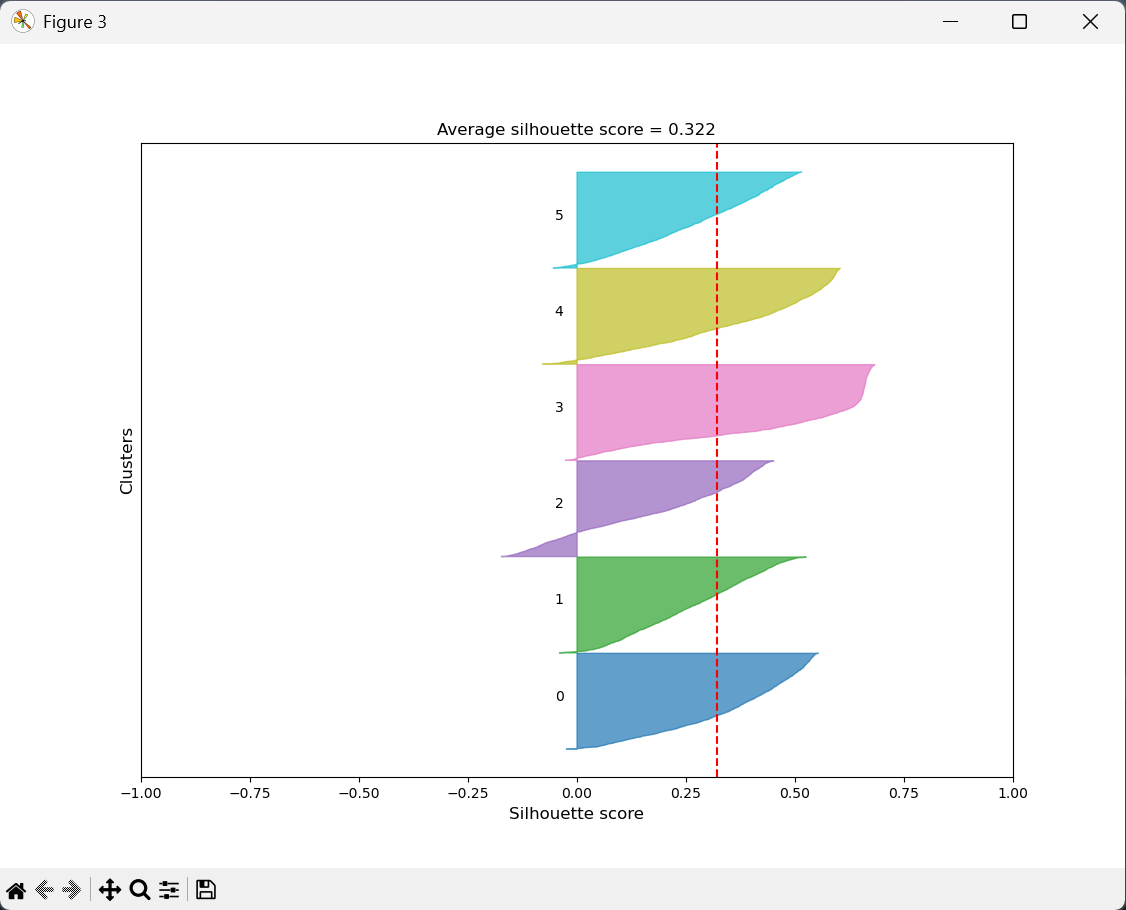
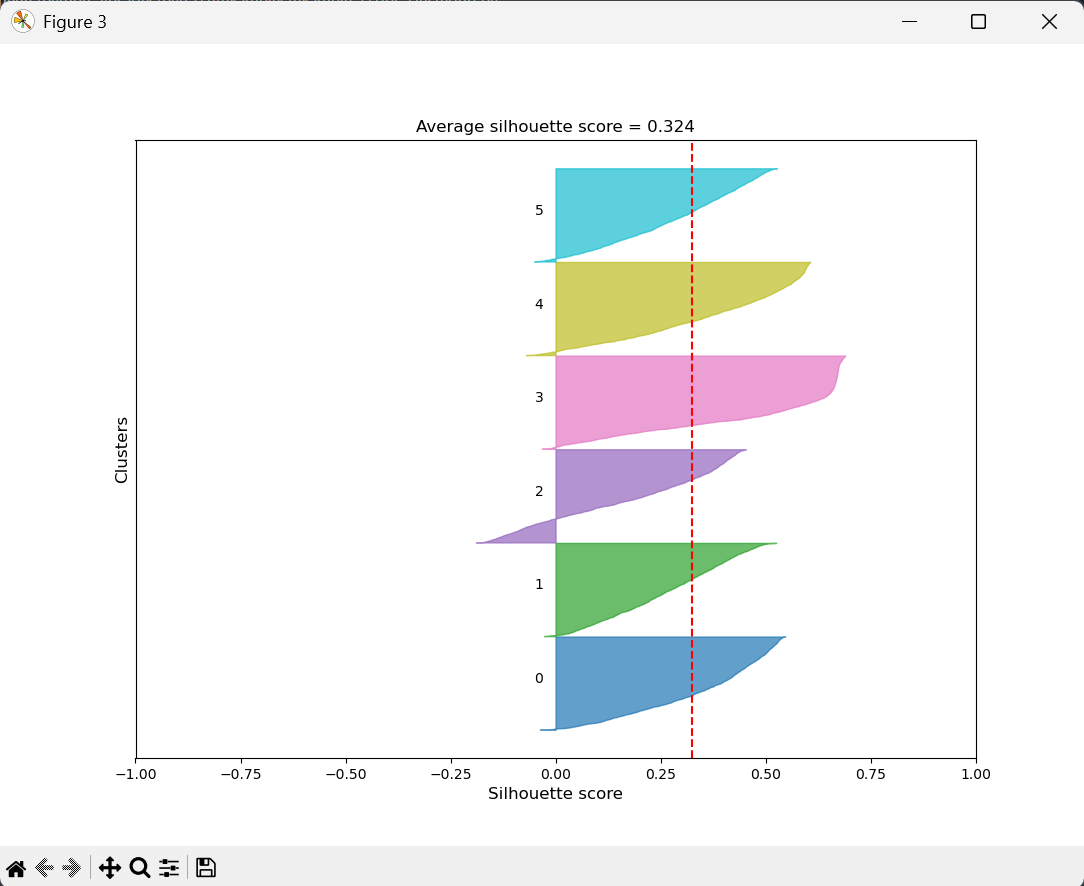
-Minor fixes of the documentation. -Minor fixes of functions. -Adding comments to functions.

diff --git a/src/PyRaTe/function_img_display.py b/src/PyRaTe/function_img_display.py
@@ -1,7 +1,16 @@
 ###############################################################################
 #HEADER
 
-#This function 
+#This function allows you to display 3 bands of imported GeoTIFF as a 
+#georeferenced RGB image.
+
+#Inputs:
+# - band_list: list of arrays containing the bands of the imported GeoTIFF.
+# - bands_bounds: georeferencing for the image.
+# - display_rgb: list of int containing the indices of bands to display as red,
+#                green and blue.
+
+#Outputs: None
 
 ###############################################################################
 
@@ -18,6 +27,8 @@ def img_display(band_list,band_bounds,display_rgb=[0,1,2]):
     
     lon_min,lon_max = band_bounds.left,band_bounds.right
     lat_min,lat_max = band_bounds.bottom,band_bounds.top
+    
+    #RGB image generation:-----------------------------------------------------
     
     red = band_list[display_rgb[0]]
     green = band_list[display_rgb[1]]
@@ -36,6 +47,8 @@ def img_display(band_list,band_bounds,display_rgb=[0,1,2]):
     blue = np.clip(blue,0,1)
     
     img_rgb = np.stack((red,green,blue),axis=-1)
+    
+    #Display:------------------------------------------------------------------
     
     fig,ax = plt.subplots()
     ax.imshow(img_rgb,extent=[lon_min,lon_max,lat_min,lat_max],origin='upper')

diff --git a/src/PyRaTe/function_importation.py b/src/PyRaTe/function_importation.py
@@ -1,7 +1,14 @@
 ###############################################################################
 #HEADER
 
-#This function 
+#This function allows you to import one or several GeoTIFF files containing 
+#bands of a georeferenced image, in a format adapted to PyRaTe.
+
+#Inputs: None
+
+#Outputs:
+# - band_list: list of arrays containing the bands of the imported GeoTIFF.
+# - bands_bounds: georeferencing for the image.
 
 ###############################################################################
 
@@ -52,20 +59,16 @@ def importation():
             
         geotiff.close()
         
-    #Check the bounds consistency and keep only one:---------------------------
+    #Check the bounds consistency and keep the last one:-----------------------
         
     band_bounds_set = set(band_bounds_list)
     
-    if len(band_bounds_set)==1:
-        
-        band_band_bounds = next(iter(band_bounds_set))
-    
-    else:
+    if len(band_bounds_set)!=1:
         
         raise ValueError('Inconsistency between the different GeoTIFF files !')
         
     #Return the list of raster bands and the bounds:---------------------------
         
-    return band_list,band_band_bounds
+    return band_list,band_bounds
         
         

diff --git a/src/PyRaTe/function_clustering.py b/src/PyRaTe/function_clustering.py
@@ -1,7 +1,17 @@
 ###############################################################################
 #HEADER
 
-#This function 
+#This function allows you to cluster pixels in a raster image using K-means.
+
+#Inputs:
+# - band_list: list of arrays containing the bands of the imported GeoTIFF.
+# - nb_clusters: int number of clusters to divide the pixels into (K).
+# - seed: int number of the random seed for the initialization.
+
+#Outputs:
+# - img_label: array of int of the same dimensions as the input image, 
+#              corresponding to the clusters assigned to every pixel in the 
+#              image.
 
 ###############################################################################
 
@@ -46,6 +56,8 @@ def clustering(band_list,nb_clusters,seed=0):
     colorbar.ax.set_yticklabels(np.arange(nb_clusters))
     
     #Silhouette score:---------------------------------------------------------
+    
+    np.random.seed(seed)
     
     sample_idx = []
     for cluster in np.unique(labels):

diff --git a/examples/example_script_classification.py b/examples/example_script_classification.py
@@ -1,7 +1,15 @@
 ###############################################################################
 #HEADER
 
-#This script 
+#This script proposes a complete supervised classification process of pixels 
+#from a satellite raster image:
+# - GeoTIFF image importation (several bands).
+# - RGB georeferenced display.
+# - Training dataset preparation.
+# - Statistical study of the training dataset.
+# - Training of a pixel classifier.
+# - Test dataset preparation, and test of the classifier.
+# - Prediction and labelled display.
 
 ###############################################################################
 
@@ -31,7 +39,7 @@ PyRaTe.dataset_statistics(df_training)
 
 #Training:---------------------------------------------------------------------
 
-#Train a classifier on this training dataset:
+#Train a Naive Bayes classifier pipeline on this training dataset:
 
 classifier_pipeline = PyRaTe.training(df_training)
 

diff --git a/examples/example_script_clustering.py b/examples/example_script_clustering.py
@@ -1,7 +1,12 @@
 ###############################################################################
 #HEADER
 
-#This script 
+#This script proposes a complete clustering process of pixels from a satellite 
+#raster image:
+# - GeoTIFF image importation (several bands).
+# - RGB georeferenced display.
+# - Clustering of pixels.
+# - Labelled display.
 
 ###############################################################################
 
@@ -23,11 +28,13 @@ PyRaTe.img_display(band_list,band_bounds,display_rgb=[3,2,1])
 
 #Clustering:-------------------------------------------------------------------
 
+#K-means with number of clusters K = 6 and random seed 1:
+    
 img_label = PyRaTe.clustering(band_list,6,1)
 
 #Labelling:--------------------------------------------------------------------
 
-#Label choice:
+#Labels choice:
 
 labels_code = ['vegetation_1','vegetation_2','urban_1','water','field','urban_2']
 

diff --git a/src/PyRaTe/function_prediction.py b/src/PyRaTe/function_prediction.py
@@ -1,7 +1,19 @@
 ###############################################################################
 #HEADER
 
-#This function 
+#This function allows you to predict the identification of pixels in an 
+#imported image with a trained classifier pipeline.
+
+#Inputs:
+# - classifier_pipeline: Scikit-Learn trained classifier pipeline.
+# - band_list: list of arrays containing the bands of the imported GeoTIFF.
+
+#Outputs:
+# - img_label: array of int of the same dimensions as the input image, 
+#              corresponding to the clusters assigned to every pixel in the 
+#              image.
+# - label_code: list of str containing the labels corresponding to intergers in
+#               img_label array.
 
 ###############################################################################
 

diff --git a/src/PyRaTe/function_labelling.py b/src/PyRaTe/function_labelling.py
@@ -1,7 +1,16 @@
 ###############################################################################
 #HEADER
 
-#This function 
+#This function allows you to generate a labelled dataset of pixels for training
+#or testing a classifier.
+
+#Inputs:
+# - band_list: list of arrays containing the bands of the imported GeoTIFF.
+# - display_rgb: list of int containing the indices of bands to display for the
+#                GUI, as red, green and blue.
+
+#Outputs:
+# - df_output: Pandas DataFrame containing the labelled dataset of pixels.
 
 ###############################################################################
 

diff --git a/src/PyRaTe/function_label_display.py b/src/PyRaTe/function_label_display.py
@@ -1,7 +1,16 @@
 ###############################################################################
 #HEADER
 
-#This function 
+#This function allows you to display the labels assigned to each pixel as a
+#georeferenced image.
+
+#Inputs:
+# - img_label: array of int corresponding to the labels assigned to each pixel.
+# - band_bounds: georeferencing for the image.
+# - label_code: list of str containing the labels corresponding to intergers in
+#               img_label array.
+
+#Outputs: None
 
 ###############################################################################
 

diff --git a/src/PyRaTe/function_test.py b/src/PyRaTe/function_test.py
@@ -1,7 +1,14 @@
 ###############################################################################
 #HEADER
 
-#This function 
+#This function allows you to test the performances of a trained classifier 
+#pipeline on a labelled dataset of pixels.
+
+#Inputs:
+# - classifier_pipeline: Scikit-Learn trained classifier pipeline.
+# - df_input: Pandas DataFrame containing the labelled dataset of pixels.
+
+#Outputs: None
 
 ###############################################################################
 

diff --git a/src/PyRaTe/function_training.py b/src/PyRaTe/function_training.py
@@ -1,7 +1,14 @@
 ###############################################################################
 #HEADER
 
-#This function 
+#This function allows you to train a Naive Bayes classifier pipeline on a 
+#labelled dataset of pixels.
+
+#Inputs:
+# - df_input: Pandas DataFrame containing the labelled dataset of pixels.
+
+#Outputs:
+# - classifier_pipeline: Scikit-Learn trained classifier pipeline.
 
 ###############################################################################
 

diff --git a/src/PyRaTe/function_dataset_statistics.py b/src/PyRaTe/function_dataset_statistics.py
@@ -1,7 +1,13 @@
 ###############################################################################
 #HEADER
 
-#This function 
+#This function allows you to display one histogram per band in your dataset,
+#showing the distribution of pixels value within each class.
+
+#Inputs:
+# - df_input: Pandas DataFrame as generated by the PyRaTe labelling function.
+
+#Outputs: None
 
 ###############################################################################
 

diff --git a/docs/partitionnement.md b/docs/partitionnement.md
@@ -58,7 +58,7 @@ Pour plus d'informations sur la méthode, cliquez sur ce lien : [Cours sur les K
 
 Mettons que nous avons importé les différentes bandes de notre image de Saint-Quentin-en-Yvelines avec **PyRaTe**, et que nous voulons à présent partitionner les pixels de cette image.
 
-Pour séparer les pixels en un nombre de groupes K = 6, utilisez la commande suivante :
+Pour séparer les pixels en un nombre de groupes K = 6, utilisez la commande suivante (le partitionnement peut prendre un peu de temps) :
 
 ~~~bash
 img_label = PyRaTe.clustering(band_list,6,1)
@@ -128,12 +128,15 @@ Un score au-dessus de 0.5 sera considéré comme exceptionnellement bon.
 Sur la figure affichée ici, on voit que le groupe 3 est clairement de bonne qualité, avec peu de pixels mal attribués (scores négatifs) et beaucoup de pixels très bien attribués (scores supérieurs à 0.5).
 A l'inverse, le groupe 2 a l'air d'être le plus mal définit, avec beaucoup de pixels mal attribués.
 
+Le score moyen est de 0.324, ce qui est relativement bon pour notre application.
+
 _Essayez plusieurs valeurs de K entre 2 et 10. Comment jugez-vous la qualité des différentes partitions obtenues ? Laquelle choisiriez-vous ?_
 
 |Nota Bene|
 |:-|
 |Si nous ne calculons le coefficient de silhouette que pour 2000 pixels par groupe, c'est que le calcul de ce score est trop long en pratique pour des millions de pixels.|
 |Les scores obtenus ne sont donc que des **approximations** des coefficients de silhouette réels de notre partition.|
+|Pour la reproductibilité des résultats, la même graine aléatoire que pour l'initialisation des K-moyennes est utilisée pour l'échantillonnage.|
 
 ## Affichage des labels
 
